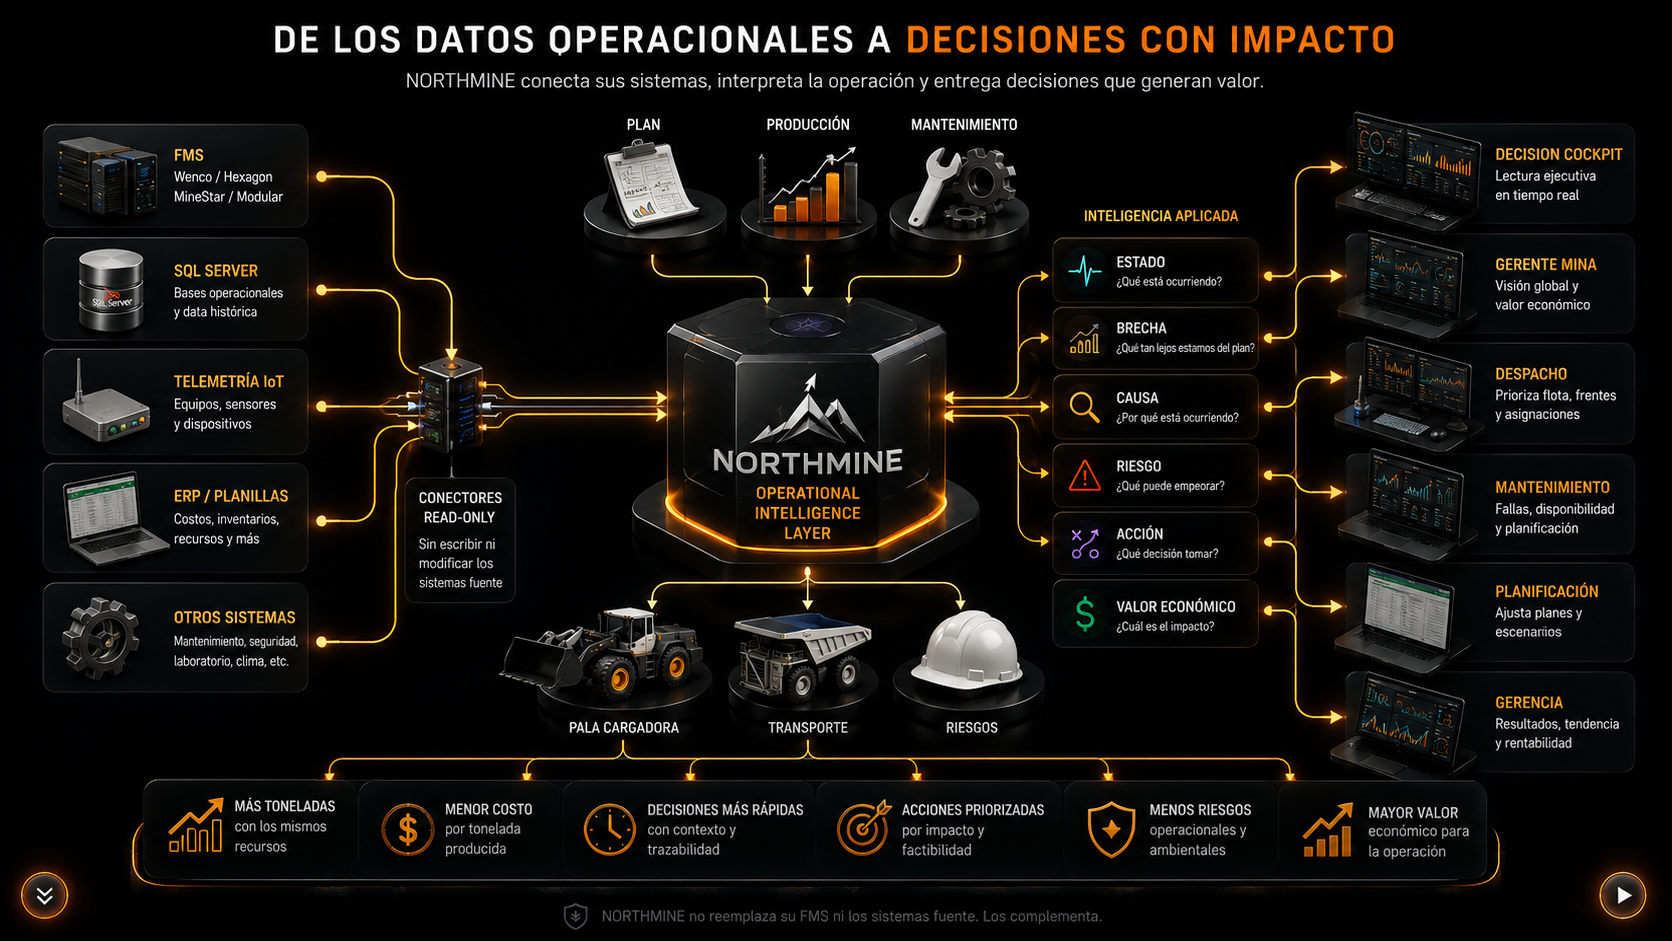
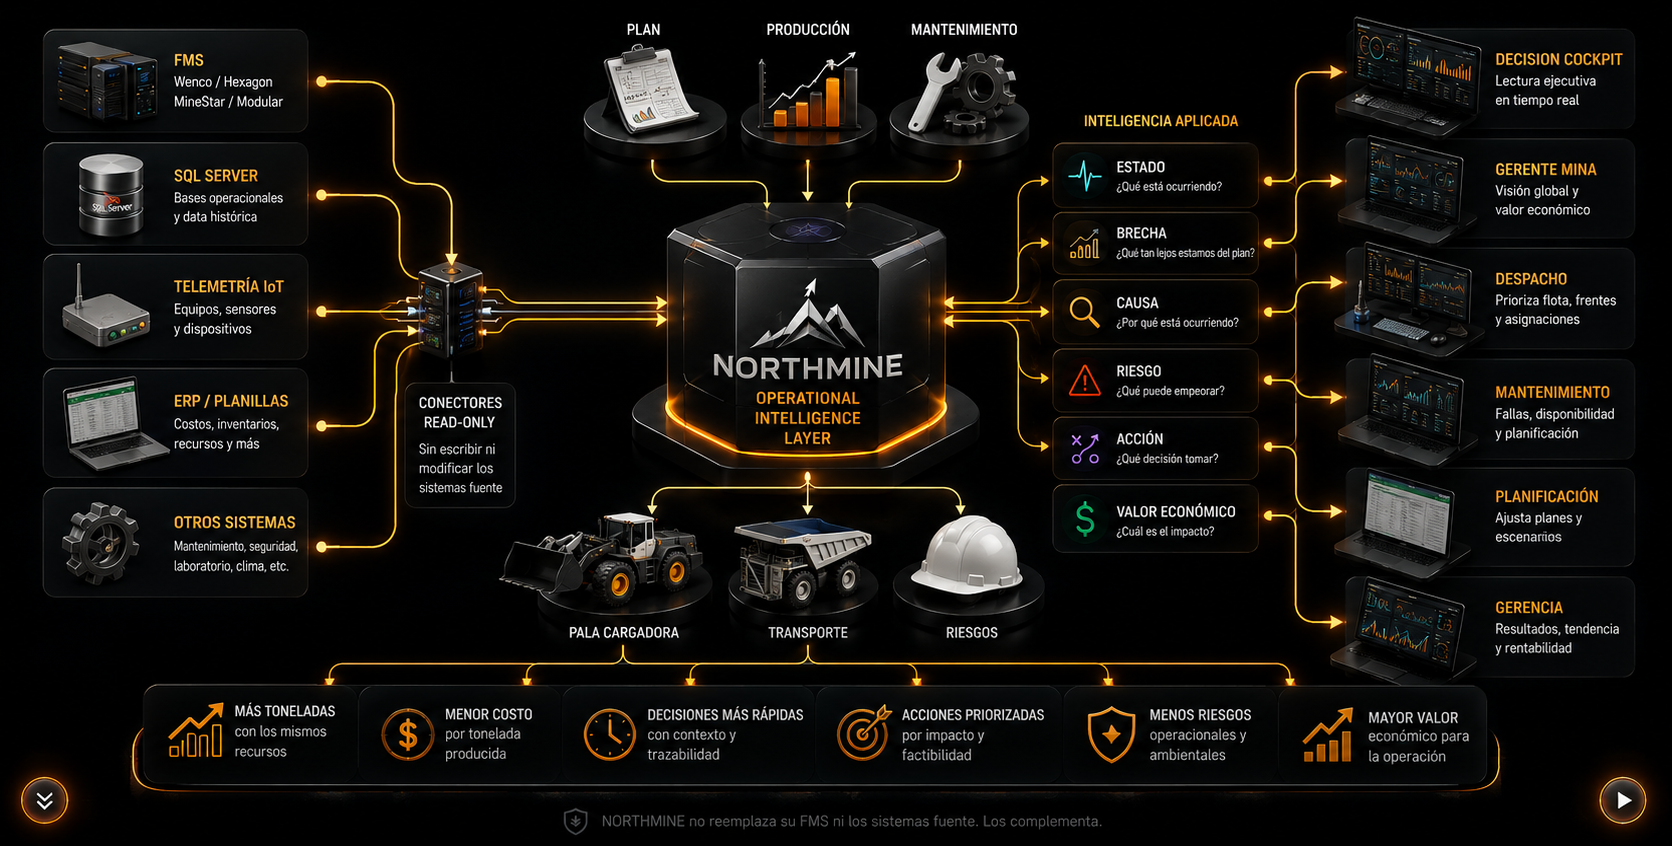
fix(landing): crop the repeated title out of the flow-overview image
The diagram's own top band ("De los datos operacionales a decisiones
con impacto" + subtitle) duplicated the section's own title/body right
above it. Cropped the asset itself (95px off the top, 941->846px tall)
rather than fighting it with CSS - verified the crop line clears the
subtitle with margin to spare before the first row of icons, so no
diagram content is cut off. Updated the <img> height attribute to match.

Changed region(s): [[0.0, 0.0, 0.9641, 0.9835], [0.933, 0.8913, 0.9952, 0.9835], [0.6531, 0.1229, 0.7464, 0.1537]]

diff --git a/frontend/src/components/brand-prototype/saas/OperationalFlowOverview.tsx b/frontend/src/components/brand-prototype/saas/OperationalFlowOverview.tsx
@@ -26,7 +26,7 @@ export function OperationalFlowOverview() {
             src="/assets/landing/saas/operational-flow-overview.png"
             alt={overview.imageAlt}
             width={1672}
-            height={941}
+            height={846}
             loading="lazy"
           />
         </figure>
